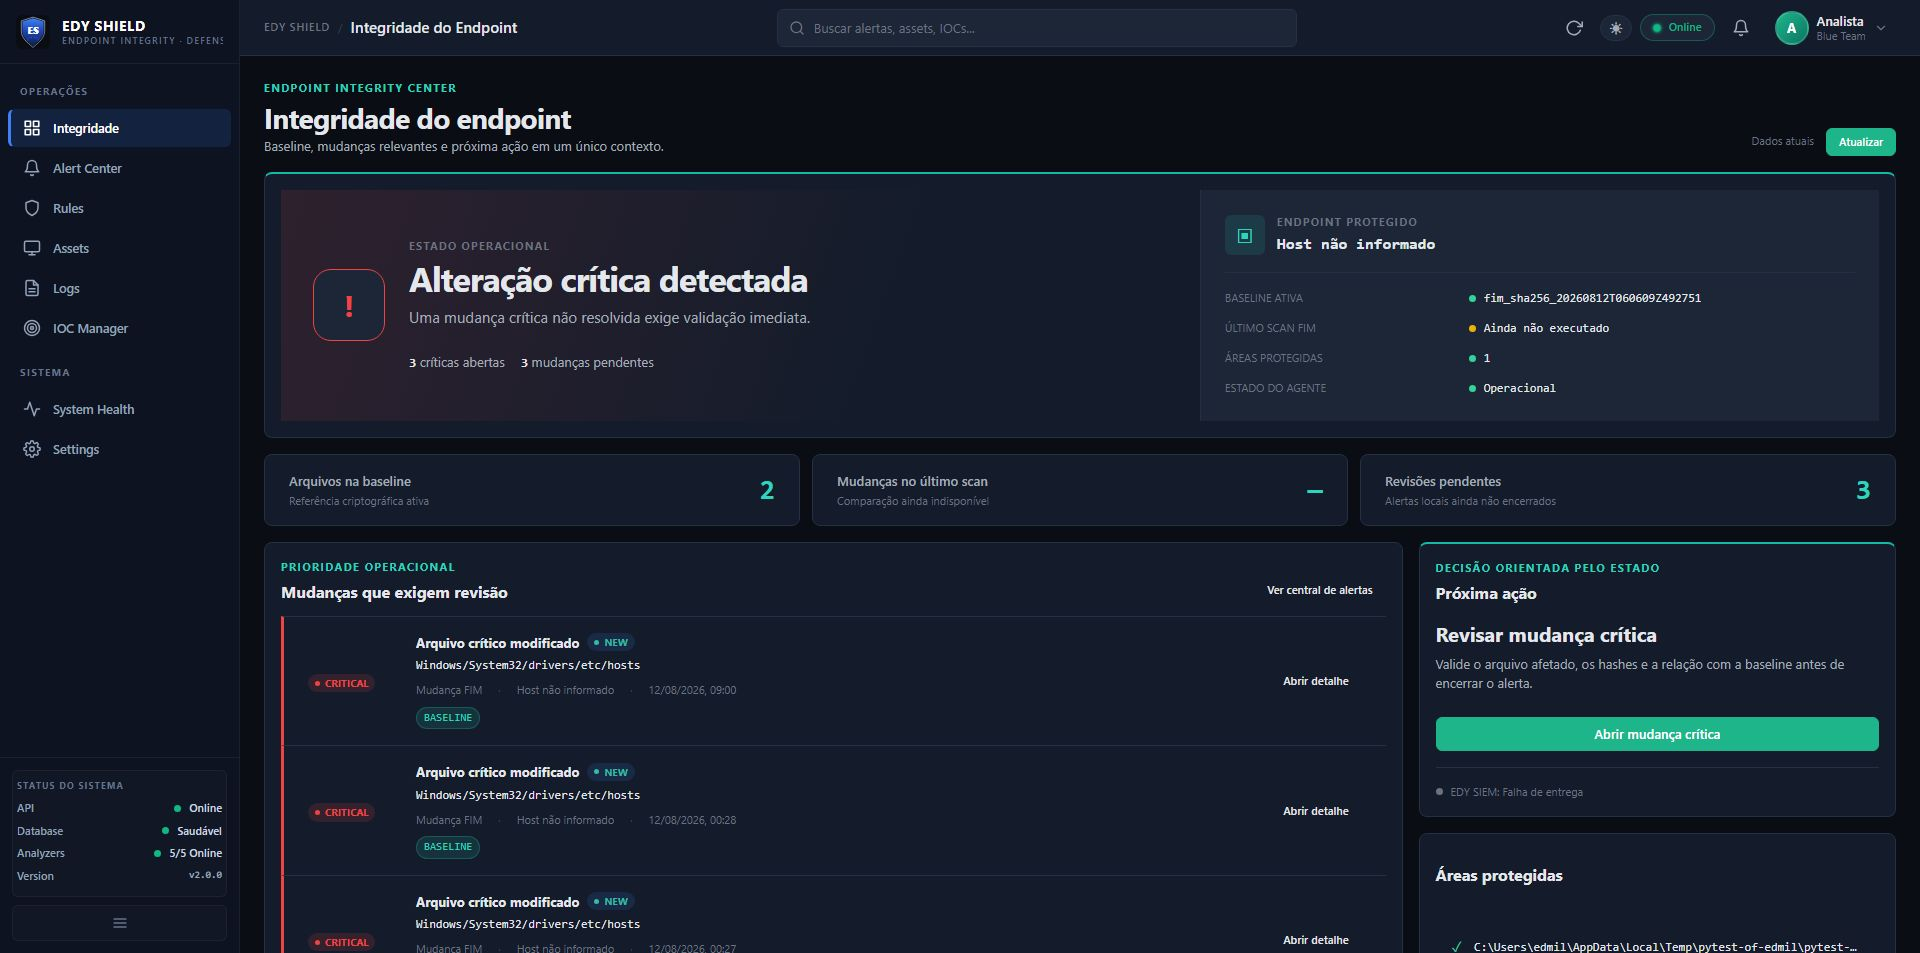
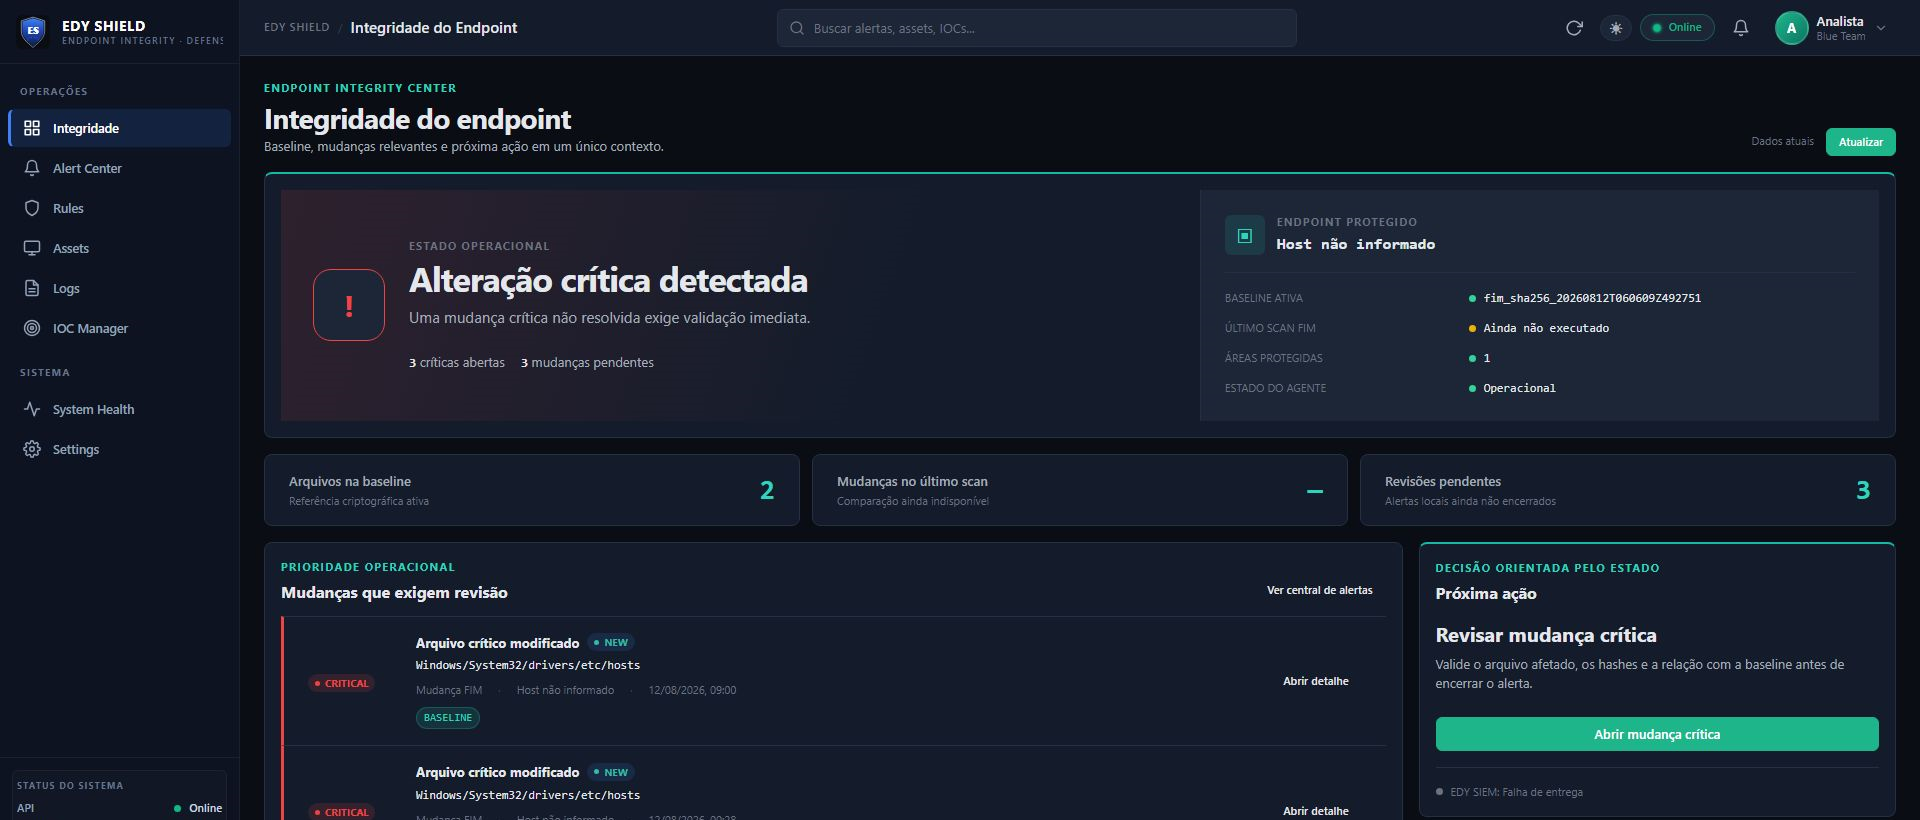
security: sanitize public artifacts and harden automation

diff --git a/docs/QA_REPORT.md b/docs/QA_REPORT.md
@@ -7,7 +7,7 @@
 | **Versão do produto** | 1.1.0 (release oficial — `app/__init__.py`) |
 | **Analista** | ARES (Cybersecurity Sênior + QA) — TITAN AI SQUAD |
 | **Data** | 01/08/2026 |
-| **Runtime de validação** | Python 3.12 (C:\Users\edmil\AppData\Local\Programs\Python\Python312\python.exe) |
+| **Runtime de validação** | Python 3.12 (C:\Users\user\AppData\Local\Programs\Python\Python312\python.exe) |
 | **Suíte de testes** | ✅ 24/24 passed (`pytest` em 0.07s) |
 
 ---
@@ -191,7 +191,7 @@ compute(str(base/'nao_existe_por_engano.txt'), 'sha256')
 |---|---|
 | **Analista** | ARES (Cybersecurity Sênior + QA) — TITAN AI SQUAD |
 | **Data** | 01/08/2026 |
-| **Runtime de validação** | Python 3.12 (`C:\Users\edmil\AppData\Local\Programs\Python\Python312\python.exe`) |
+| **Runtime de validação** | Python 3.12 (`C:\Users\user\AppData\Local\Programs\Python\Python312\python.exe`) |
 | **Método** | Leitura de código atualizado + suíte completa + 10 smoke tests manuais de segurança + grep de confirmação |
 
 ### 8.1 Resultado da suíte de testes
